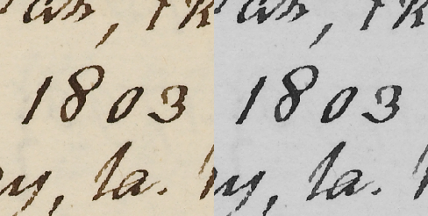
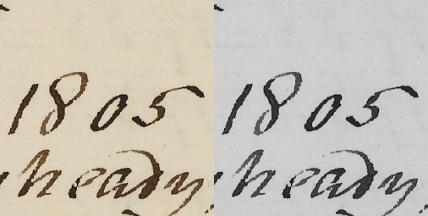
Switched diaries picture to have a light background

diff --git a/portfolio/index.html b/portfolio/index.html
@@ -29,22 +29,17 @@ title: Portfolio &mdash; Adam Obeng
 	<h1>philosophy</h1>
 </a>
 
+
+
 <div class="clear"></div>
-<a class="project" id="diaries">
-	<h1>diaries</h1>
-</a>
 
 
-<a class="project">
-	<h1>identity</h1>
-</a>
+<a class="project" id="diaries"><h1>diaries</h1></a>
 
-<a href="books.html" class="project" id="books">
-	<h1>books</h1>
-</a>
+<a href="books.html" class="project" id="books"><h1>books</h1></a>
 
-<a class="project" href="beebify.html" id="beebify">
-	<h1>beebify</h1>
-</a>
+<a class="project"><h1>identity</h1></a>
+
+<a class="project" href="beebify.html" id="beebify"><h1>beebify</h1></a>
 
 <div class="clear"></div>

diff --git a/_site/portfolio/index.html b/_site/portfolio/index.html
@@ -76,23 +76,18 @@
 	<h1>philosophy</h1>
 </a>
 
+
+
 <div class="clear"></div>
-<a class="project" id="diaries">
-	<h1>diaries</h1>
-</a>
 
 
-<a class="project">
-	<h1>identity</h1>
-</a>
+<a class="project" id="diaries"><h1>diaries</h1></a>
 
-<a href="books.html" class="project" id="books">
-	<h1>books</h1>
-</a>
+<a href="books.html" class="project" id="books"><h1>books</h1></a>
 
-<a class="project" href="beebify.html" id="beebify">
-	<h1>beebify</h1>
-</a>
+<a class="project"><h1>identity</h1></a>
+
+<a class="project" href="beebify.html" id="beebify"><h1>beebify</h1></a>
 
 <div class="clear"></div>
 

diff --git a/_site/css/portfolio.css b/_site/css/portfolio.css
@@ -200,9 +200,9 @@ header {
   background-image: url("../portfolio/diaries.png");
   background-size: 200% 100%;
   background-position: 100% 0%;
-  color: white; }
+  color: black; }
   #diaries:hover {
-    color: #ff7d00;
+    color: #0080dd;
     background-position: 0% 0%; }
 
 #about {

diff --git a/css/portfolio.css b/css/portfolio.css
@@ -200,9 +200,9 @@ header {
   background-image: url("../portfolio/diaries.png");
   background-size: 200% 100%;
   background-position: 100% 0%;
-  color: white; }
+  color: black; }
   #diaries:hover {
-    color: #ff7d00;
+    color: #0080dd;
     background-position: 0% 0%; }
 
 #about {

diff --git a/sass/portfolio.scss b/sass/portfolio.scss
@@ -295,9 +295,9 @@ header {
 	background-image: url("../portfolio/diaries.png");
 	background-size: 200% 100%;
 	background-position: 100% 0%;
-	color: white;
+	color: black;
 	&:hover {
-		color: #ff7d00;
+		color: $accent-colour;
 	background-position: 0% 0%;
 	}
 	}
